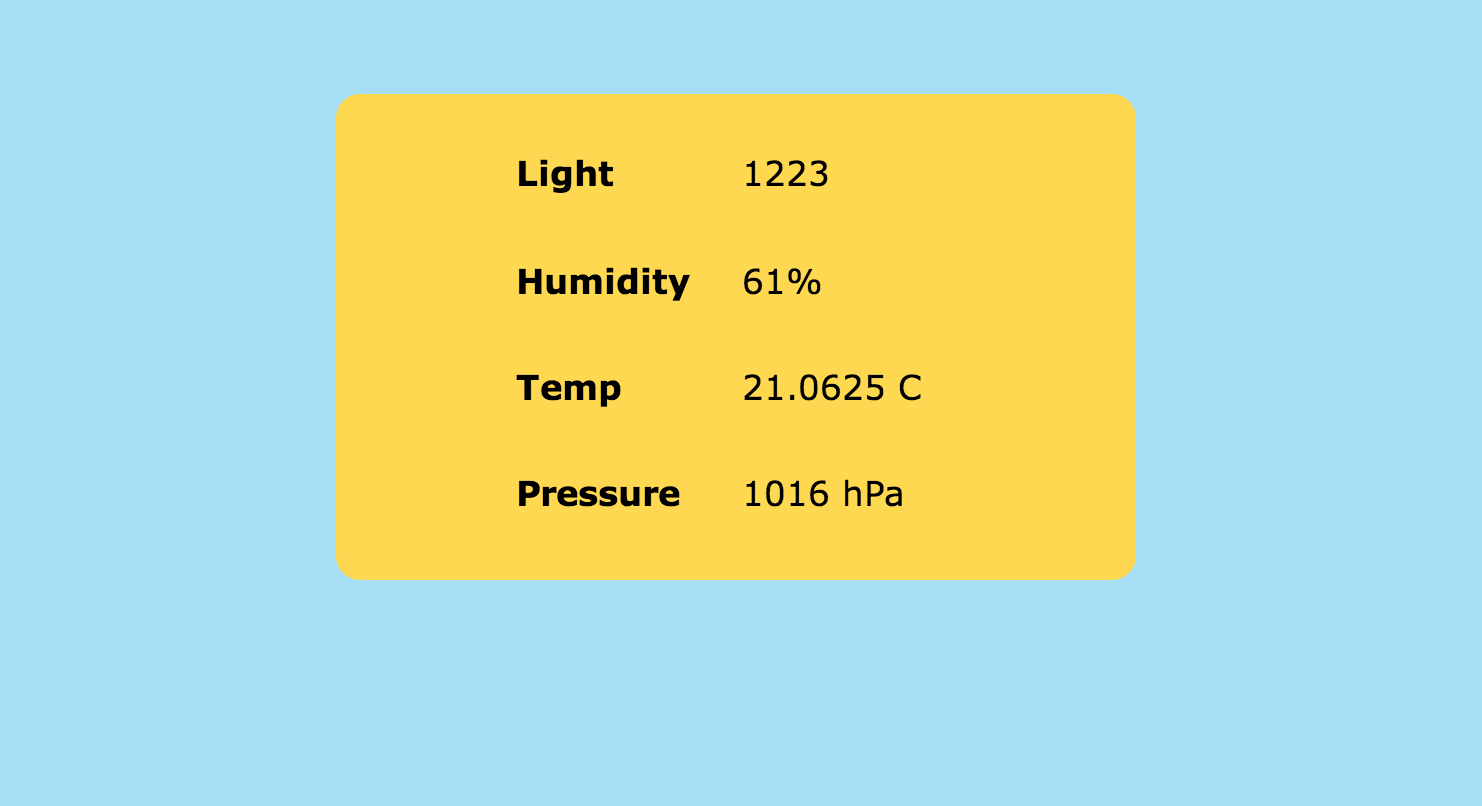
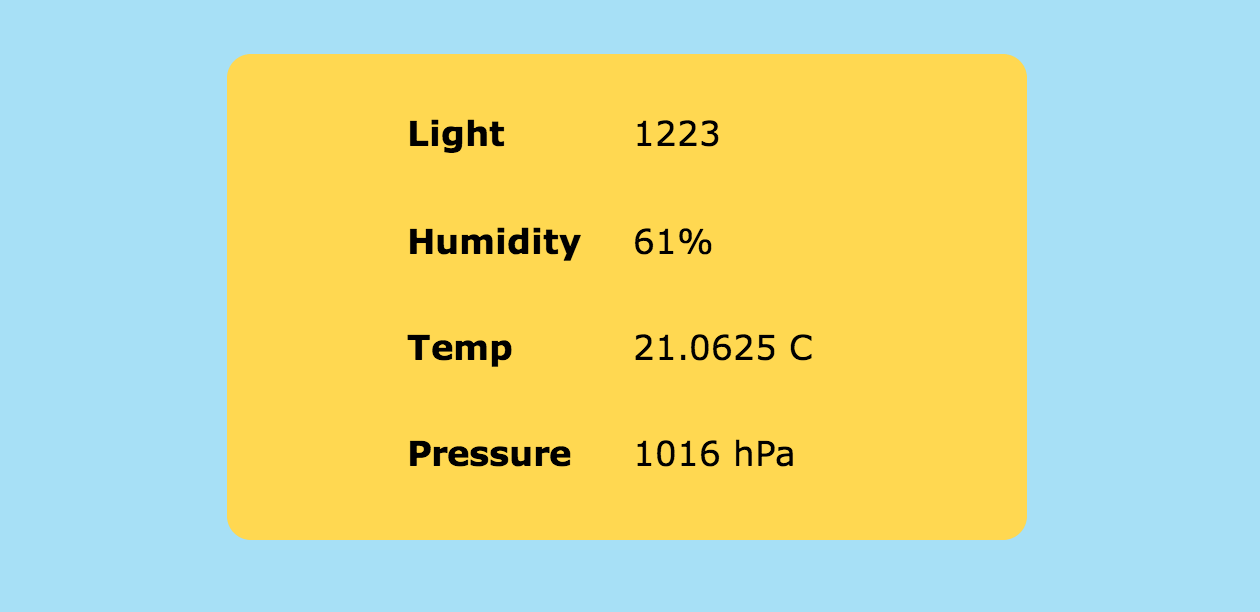
Readme and screenshot modified

diff --git a/README.md b/README.md
@@ -1,2 +1,43 @@
 RoomMonitor
 ===========
+
+Room Environment Monitor on pcDuino
+###Features
+
+- Pressure, temperature, humidity and luminous intensity measurement
+- Web interface to check the current value as well as historical data
+
+###Sensors
+- BMP085/180 (Used library from [Adafruit](https://github.com/adafruit/Adafruit-BMP085-Library))
+- DHT
+- Photoresistor module
+
+###Screen Shots
+![stat](docs/screenshot_stat.png)
+![current](docs/screenshot_current.png)
+
+###Install
+1. Build C/C++ sensor modules
+
+		$ make
+2. Edit `fetch.py` to match your sensor pin configuration
+3. Create cron job for `fetch.py`
+
+		$ crontab -e
+		###
+		*/5 * * * * /usr/bin/python <path>/fetch.py
+		# fetch data every 5 minutes
+4. Run the web server
+
+		$ python main.py
+or
+
+		$ gunicorn -c gunicorn_config.py main:app
+
+###Built by
+- [Flask](flask.pocoo.org)
+- [SQLAlchemy](www.sqlalchemy.org) (An overkill for this case, but I like it :)
+- [Highstock](http://www.highcharts.com/)
+
+###License
+This project is licensed under the [MIT license](http://opensource.org/licenses/MIT).
